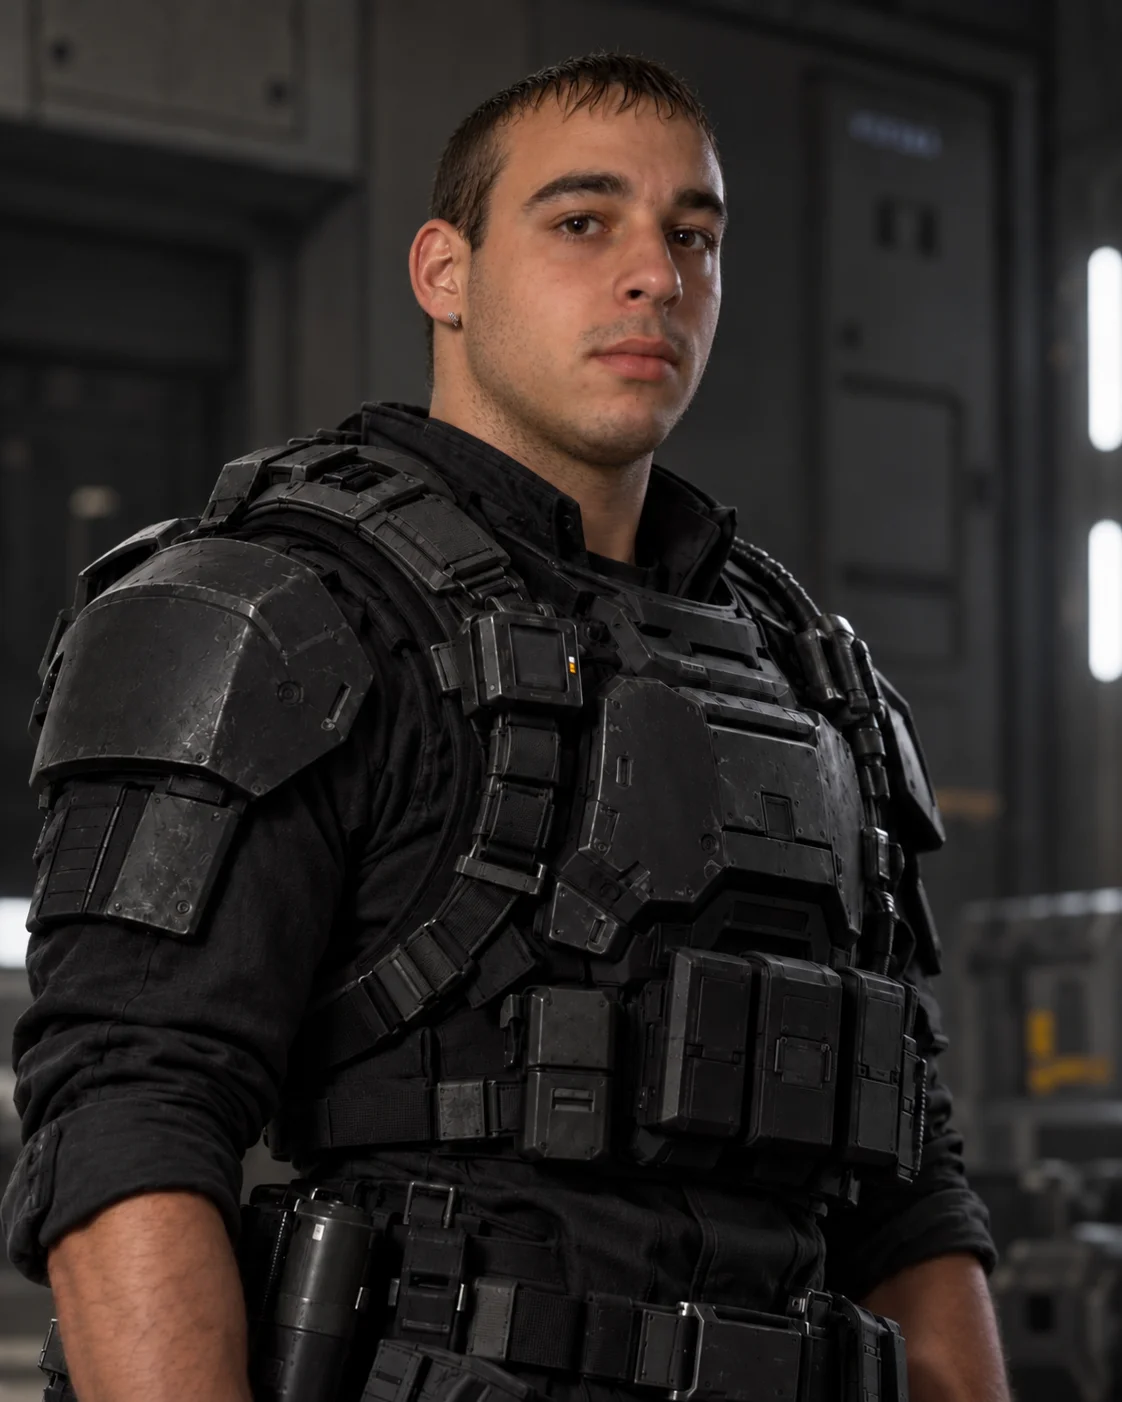
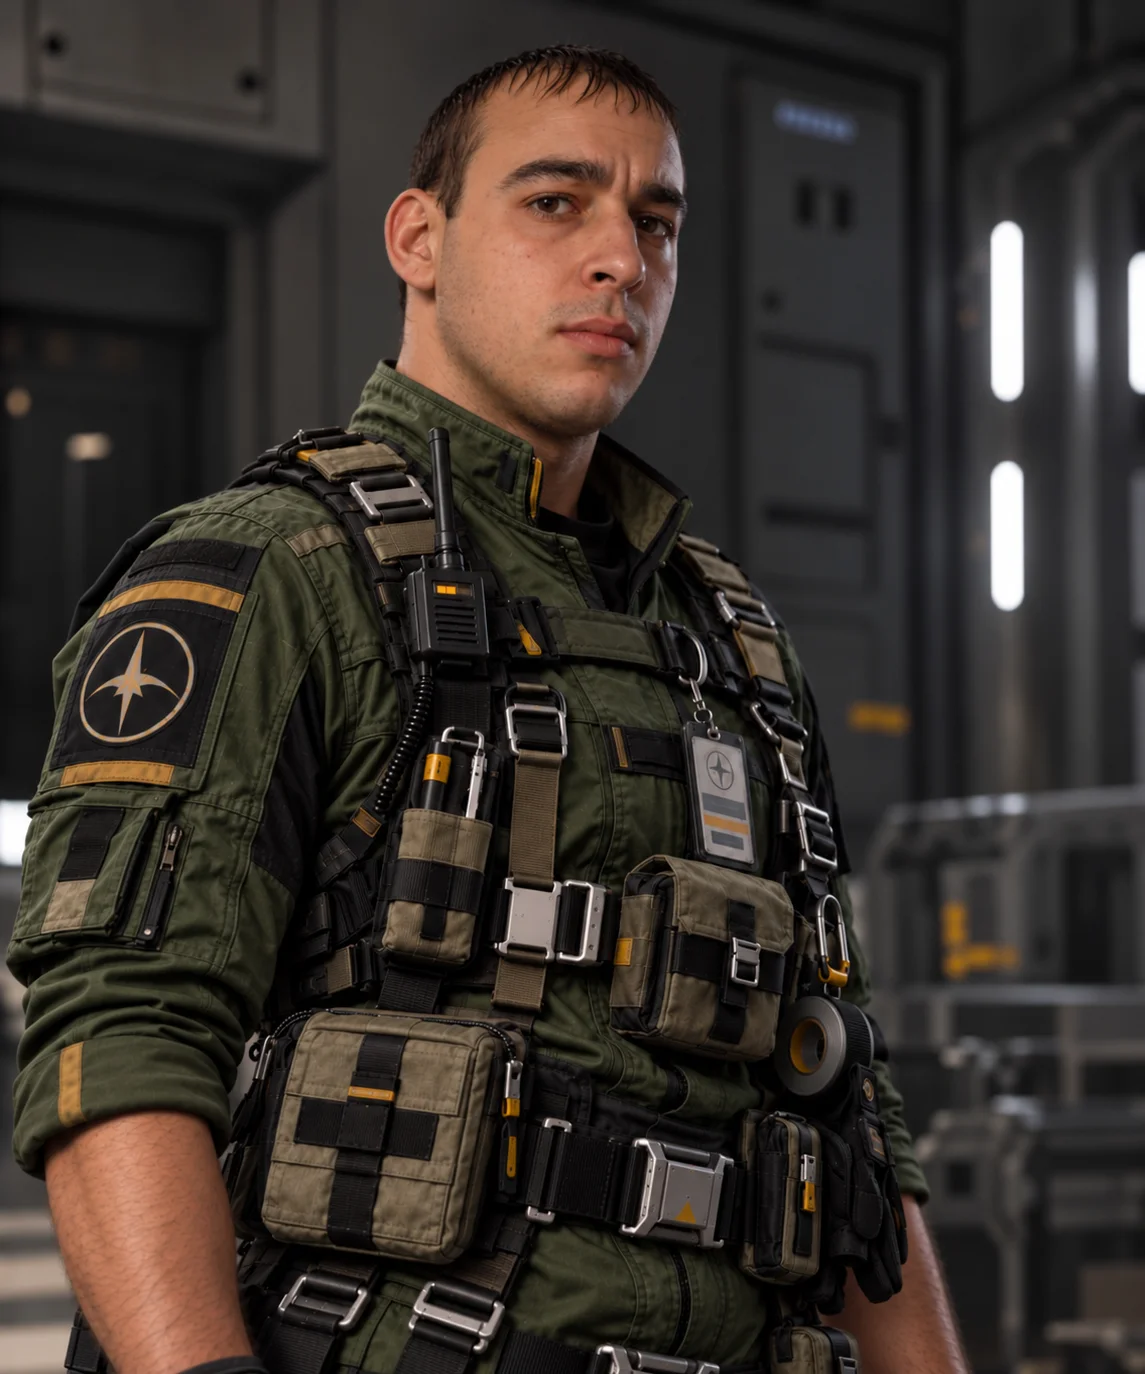
modification data character

diff --git a/src/data/character.ts b/src/data/character.ts
@@ -8,7 +8,7 @@ export const characters: Character[] = [
     specialty: { name: "operative", level: 85 },
     secondarySpecialties: [
       { name: "liaisonOfficer", level: 77 },
-      { name: "pilot", level: 66 },
+      { name: "logistician", level: 66 },
     ],
     skills: {
       leadership: 76,
@@ -33,10 +33,10 @@ export const characters: Character[] = [
     id: 2,
     name: "Sunny",
     image: "/characters/Sunny.webp",
-    specialty: { name: "liaisonOfficer", level: 84 },
+    specialty: { name: "liaisonOfficer", level: 82 },
     secondarySpecialties: [
-      { name: "operative", level: 55 },
-      { name: "pilot", level: 66 },
+      { name: "operative", level: 60 },
+      { name: "pilot", level: 60 },
     ],
     skills: {
       leadership: 78,
@@ -63,9 +63,9 @@ export const characters: Character[] = [
     image: "/characters/Randy.webp",
     specialty: { name: "engineer", level: 88 },
     secondarySpecialties: [
-      { name: "scientist", level: 70 },
+      { name: "scientist", level: 75 },
       { name: "pilot", level: 62 },
-      { name: "operative", level: 48 },
+      { name: "operative", level: 60 },
     ],
     skills: {
       leadership: 52,
@@ -90,8 +90,8 @@ export const characters: Character[] = [
     id: 4,
     name: "Yann",
     image: "/characters/Yann.webp",
-    specialty: { name: "pilot", level: 86 },
-    secondarySpecialties: [{ name: "operative", level: 64 }],
+    specialty: { name: "pilot", level: 80 },
+    secondarySpecialties: [{ name: "operative", level: 70 }],
     skills: {
       leadership: 58,
       physical: 67,
@@ -115,19 +115,19 @@ export const characters: Character[] = [
     id: 5,
     name: "Alex",
     image: "/characters/Alex.webp",
-    specialty: { name: "operative", level: 87 },
-    secondarySpecialties: [{ name: "liaisonOfficer", level: 62 }],
+    specialty: { name: "operative", level: 83},
+    secondarySpecialties: [{ name: "logistician", level: 82 }],
     skills: {
       leadership: 78,
-      physical: 65,
-      agility: 64,
-      perception: 70,
-      intelligence: 64,
+      physical: 70,
+      agility: 66,
+      perception: 75,
+      intelligence: 70,
       charisma: 60,
       seduction: 44,
       composure: 60,
       social: 62,
-      stealth: 74,
+      stealth: 76,
       instinct: 81,
     },
     states: {
@@ -195,8 +195,8 @@ export const characters: Character[] = [
     image: "/characters/JeromeC.webp",
     specialty: { name: "engineer", level: 83 },
     secondarySpecialties: [
-      { name: "scientist", level: 68 },
-      { name: "pilot", level: 60 },
+      { name: "scientist", level: 70 },
+      { name: "pilot", level: 55 },
     ],
     skills: {
       leadership: 56,
@@ -221,18 +221,18 @@ export const characters: Character[] = [
     name: "Jonathan",
     image: "/characters/Jonathan.webp",
     specialty: { name: "pilot", level: 79 },
-    secondarySpecialties: [{ name: "medic", level: 61 }],
+    secondarySpecialties: [{ name: "operative", level: 70 },{ name: "medic", level: 55 }],
     skills: {
       leadership: 58,
-      physical: 60,
-      agility: 59,
+      physical: 65,
+      agility: 60,
       perception: 76,
       intelligence: 70,
       charisma: 61,
       seduction: 46,
       composure: 70,
       social: 59,
-      stealth: 54,
+      stealth: 58,
       instinct: 77,
     },
     states: {
@@ -245,8 +245,8 @@ export const characters: Character[] = [
     id: 10,
     name: "Jerome",
     image: "/characters/Jerome.webp",
-    specialty: { name: "engineer", level: 84 },
-    secondarySpecialties: [{ name: "operative", level: 73 }],
+    specialty: { name: "engineer", level: 81 },
+    secondarySpecialties: [{ name: "operative", level: 80 }],
     skills: {
       leadership: 63,
       physical: 80,
@@ -270,20 +270,20 @@ export const characters: Character[] = [
     id: 11,
     name: "Christophe",
     image: "/characters/Christophe.webp",
-    specialty: { name: "operative", level: 75 },
-    secondarySpecialties: [{ name: "pilot", level: 50 }],
+    specialty: { name: "logistician", level: 78 },
+    secondarySpecialties: [{ name: "operative", level: 70 }],
     skills: {
-      leadership: 71,
+      leadership: 50,
       physical: 70,
       agility: 65,
       perception: 65,
-      intelligence: 60,
+      intelligence: 68,
       charisma: 57,
       seduction: 44,
-      composure: 50,
-      social: 52,
-      stealth: 79,
-      instinct: 81,
+      composure: 55,
+      social: 60,
+      stealth: 70,
+      instinct: 70,
     },
     states: {
       moral: 74,
@@ -320,14 +320,14 @@ export const characters: Character[] = [
     id: 13,
     name: "Tony",
     image: "/characters/Tony.webp",
-    specialty: { name: "scientist", level: 86 },
-    secondarySpecialties: [{ name: "operative", level: 54 }],
+    specialty: { name: "scientist", level: 82 },
+    secondarySpecialties: [{ name: "operative", level: 61 }],
     skills: {
       leadership: 59,
       physical: 60,
       agility: 57,
-      perception: 82,
-      intelligence: 87,
+      perception: 72,
+      intelligence: 84,
       charisma: 52,
       seduction: 45,
       composure: 70,
@@ -370,8 +370,8 @@ export const characters: Character[] = [
     id: 15,
     name: "Karim",
     image: "/characters/Karim.webp",
-    specialty: { name: "operative", level: 80 },
-    secondarySpecialties: [{ name: "pilot", level: 75 }],
+    specialty: { name: "pilot", level: 85 },
+    secondarySpecialties: [{ name: "operative", level: 78 },{name: "logistician", level: 60 }],
     skills: {
       leadership: 64,
       physical: 82,
@@ -420,7 +420,7 @@ export const characters: Character[] = [
     name: "Maeva",
     image: "/characters/Maeva.webp",
     specialty: { name: "scientist", level: 79 },
-    secondarySpecialties: [{ name: "liaisonOfficer", level: 70 }],
+    secondarySpecialties: [{ name: "liaisonOfficer", level: 72 },{ name: "medic", level: 50 }],
     skills: {
       leadership: 64,
       physical: 82,

diff --git a/src/data/missions/automissions/moon/contracts01.ts b/src/data/missions/automissions/moon/contracts01.ts
@@ -39,7 +39,7 @@ export const moonContracts01: AutoMission[] = [
 
     results: {
       criticalFailure: {
-        title: "Inspection catastrophique",
+        title: "Echec critique",
         text: `Une mauvaise manipulation provoque une nouvelle panne.
           Les techniciens locaux doivent intervenir en urgence.
           Votre équipe quitte les installations sous les critiques
@@ -53,7 +53,7 @@ export const moonContracts01: AutoMission[] = [
       },
 
       failure: {
-        title: "Inspection peu concluante",
+        title: "Echec",
         text: `Votre équipe termine son inspection sans parvenir
           à identifier précisément l'origine des anomalies.
           Les autorités devront poursuivre les recherches.`,
@@ -66,7 +66,7 @@ export const moonContracts01: AutoMission[] = [
       },
 
       success: {
-        title: "Inspection réussie",
+        title: "Réussite",
         text: `Les anomalies sont identifiées et les installations
           peuvent être remises en service. Les responsables
           de la colonie remercient votre équipage.`,
@@ -79,7 +79,7 @@ export const moonContracts01: AutoMission[] = [
       },
 
       criticalSuccess: {
-        title: "Intervention exemplaire",
+        title: "Reussite Critique",
         text: `Votre équipe identifie rapidement l'origine du problème
           et découvre également une défaillance jusque-là passée
           inaperçue. Les responsables saluent votre efficacité.`,
@@ -132,7 +132,7 @@ export const moonContracts01: AutoMission[] = [
 
     results: {
       criticalFailure: {
-        title: "Livraison catastrophique",
+        title: "Echec critique",
         text: `Plusieurs équipements sont endommagés pendant
         le transport. Le personnel médical exprime son
         mécontentement et demande un rapport d'incident.
@@ -146,7 +146,7 @@ export const moonContracts01: AutoMission[] = [
       },
 
       failure: {
-        title: "Livraison compliquée",
+        title: "Echec",
         text: `La cargaison arrive avec du retard et certains
         équipements nécessitent des vérifications supplémentaires.
         Les responsables acceptent la livraison, sans être
@@ -160,7 +160,7 @@ export const moonContracts01: AutoMission[] = [
       },
 
       success: {
-        title: "Livraison effectuée",
+        title: "Réussite",
         text: `Le matériel arrive en bon état et dans les délais.
         Le personnel médical remercie votre équipage pour
         son professionnalisme.`,
@@ -173,7 +173,7 @@ export const moonContracts01: AutoMission[] = [
       },
 
       criticalSuccess: {
-        title: "Livraison exemplaire",
+        title: "Réussite critique",
         text: `Votre équipe assure un transport particulièrement
         efficace et facilite également l'installation
         des équipements. Les responsables de la colonie

diff --git a/src/data/missions/automissions/ceres/contracts01.ts b/src/data/missions/automissions/ceres/contracts01.ts
@@ -132,7 +132,7 @@ export const ceresContracts01: AutoMission[] = [
 
     results: {
       criticalFailure: {
-        title: "Incident de sécurité majeur",
+        title: "Echec critique",
         text: `Des marchandises disparaissent pendant votre service.
         L'enquête interne met en évidence plusieurs failles
         dans la surveillance. L'entreprise exprime
@@ -146,7 +146,7 @@ export const ceresContracts01: AutoMission[] = [
       },
 
       failure: {
-        title: "Surveillance insuffisante",
+        title: "Echec",
         text: `Plusieurs incidents mineurs perturbent la mission.
         Votre équipe parvient à terminer son contrat,
         mais les responsables estiment que les procédures
@@ -160,7 +160,7 @@ export const ceresContracts01: AutoMission[] = [
       },
 
       success: {
-        title: "Mission accomplie",
+        title: "Réussite",
         text: `La surveillance se déroule correctement.
         Aucun incident important n'est signalé
         et l'entreprise remercie votre équipage
@@ -174,7 +174,7 @@ export const ceresContracts01: AutoMission[] = [
       },
 
       criticalSuccess: {
-        title: "Vigilance exemplaire",
+        title: "Réussite critique",
         text: `Votre équipe repère une tentative de vol
         et intervient avant la disparition des marchandises.
         Les responsables de l'entrepôt félicitent

diff --git a/src/logic/characters/specialtySkillMap.ts b/src/logic/characters/specialtySkillMap.ts
@@ -27,4 +27,12 @@ export const specialtySkillMap: Record<Specialty["name"], (keyof Skills)[]> = {
     "instinct",
     "seduction",
   ],
+
+  logistician: [
+     "intelligence",
+  "perception",
+  "composure",
+  "leadership",
+  "social",
+  ]
 };

diff --git a/src/data/labels/specialtyLabels.ts b/src/data/labels/specialtyLabels.ts
@@ -7,4 +7,5 @@ export const specialtyLabels: Record<SpecialtyName, string> = {
   scientist: "Scientifique",
   operative: "Opérateur tactique ",
   liaisonOfficer: "Agent de liaison",
+  logistician: "Logisticien",
 };

diff --git a/src/types/character.ts b/src/types/character.ts
@@ -4,7 +4,8 @@ export type SpecialtyName =
   | "medic"
   | "scientist"
   | "operative"
-  | "liaisonOfficer";
+  | "liaisonOfficer"
+  | "logistician";
 
 export type Specialty = {
   name: SpecialtyName;
